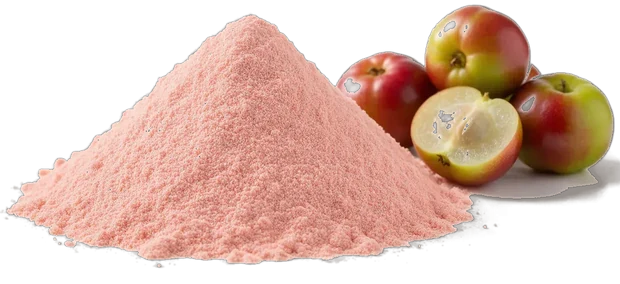
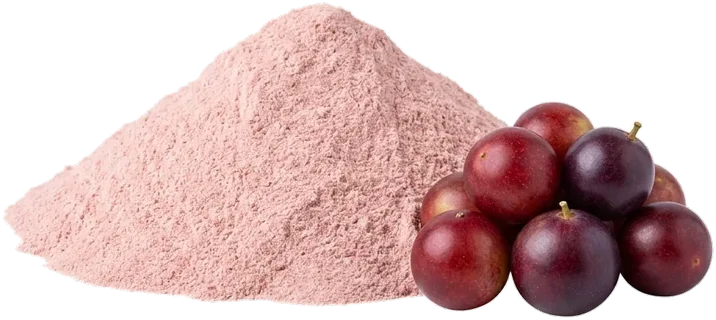
Portada nueva desde Flow y versión en archivos para evitar fotos viejas

diff --git a/assets/js/portada.js b/assets/js/portada.js
@@ -1,6 +1,7 @@
 /* Reyna's Superfoods · portada.js
    Slider de la portada con capas en paralaje, pestañas y barra fija con mega menú. */
-const IMG = {"maca_main": {"src": "/assets/hero/maca_main.webp", "w": 620, "h": 269}, "maca_amar": {"src": "/assets/hero/maca_amar.webp", "w": 299, "h": 350}, "maca_negra_r": {"src": "/assets/hero/maca_negra_r.webp", "w": 278, "h": 248}, "maca_roja_h": {"src": "/assets/hero/maca_roja_h.webp", "w": 309, "h": 235}, "lucuma_main": {"src": "/assets/hero/lucuma_main.webp", "w": 620, "h": 283}, "lucuma_half": {"src": "/assets/hero/lucuma_half.webp", "w": 232, "h": 234}, "lucuma_whole": {"src": "/assets/hero/lucuma_whole.webp", "w": 211, "h": 248}, "lucuma_pow": {"src": "/assets/hero/lucuma_pow.webp", "w": 360, "h": 158}, "maiz_main": {"src": "/assets/hero/maiz_main.webp", "w": 620, "h": 290}, "maiz_cob": {"src": "/assets/hero/maiz_cob.webp", "w": 381, "h": 215}, "maiz_pow": {"src": "/assets/hero/maiz_pow.webp", "w": 360, "h": 161}, "camu_main": {"src": "/assets/hero/camu_main.webp", "w": 620, "h": 284}, "camu_ber": {"src": "/assets/hero/camu_ber.webp", "w": 244, "h": 237}, "camu_bowl": {"src": "/assets/hero/camu_bowl.webp", "w": 360, "h": 155}, "camu_x_ber": {"src": "/assets/hero/camu_x_ber.webp", "w": 152, "h": 212}};
+const IMG = {"maca_main": {"src": "/assets/hero/maca_main.webp", "w": 716, "h": 345}, "maca_amar": {"src": "/assets/hero/maca_amar.webp", "w": 415, "h": 420}, "maca_negra_r": {"src": "/assets/hero/maca_negra_r.webp", "w": 420, "h": 415}, "maca_roja_h": {"src": "/assets/hero/maca_roja_h.webp", "w": 402, "h": 420}, "lucuma_main": {"src": "/assets/hero/lucuma_main.webp", "w": 723, "h": 322}, "lucuma_half": {"src": "/assets/hero/lucuma_half.webp", "w": 402, "h": 257}, "lucuma_whole": {"src": "/assets/hero/lucuma_whole.webp", "w": 318, "h": 391}, "maiz_main": {"src": "/assets/hero/maiz_main.webp", "w": 758, "h": 346}, "maiz_cob": {"src": "/assets/hero/maiz_cob.webp", "w": 420, "h": 310}, "camu_main": {"src": "/assets/hero/camu_main.webp", "w": 716, "h": 320}, "camu_ber": {"src": "/assets/hero/camu_ber.webp", "w": 420, "h": 360}, "camu_x_ber": {"src": "/assets/hero/camu_x_ber.webp", "w": 271, "h": 219}};
+Object.values(IMG).forEach(o => { o.src = withV(o.src); });
 /* =========================================================
    PORTADA (sin cambios respecto de la v6)
    ========================================================= */
@@ -8,13 +9,13 @@ const SLIDES = [
   { word:'Maca', bg:'#D39F78', search:'maca', main:'maca_main',
     pieces:[['maca_amar',355,150,160,0,0,'fruit'],['maca_negra_r',1035,220,170,-8,0,'fruit'],['maca_roja_h',245,470,185,-8,0,'fruit'],['maca_amar',1215,440,165,14,1,'fruit'],['maca_roja_h',1040,605,165,20,1,'fruit'],['maca_amar',-30,600,300,0,0,'corner'],['maca_negra_r',1250,25,245,0,0,'corner']]},
   { word:'Lúcuma', bg:'#EDC27A', search:'lúcuma', main:'lucuma_main',
-    pieces:[['lucuma_whole',360,140,150,-12,0,'fruit'],['lucuma_half',1035,215,170,10,0,'fruit'],['lucuma_pow',230,480,200,0,0,'fruit'],['lucuma_half',1215,430,170,-20,1,'fruit'],['lucuma_whole',1050,600,150,16,1,'fruit'],['lucuma_half',-20,590,290,0,0,'corner'],['lucuma_whole',1260,20,230,20,0,'corner']]},
+    pieces:[['lucuma_whole',360,140,150,-12,0,'fruit'],['lucuma_half',1035,215,170,10,0,'fruit'],['lucuma_whole',230,480,200,0,0,'fruit'],['lucuma_half',1215,430,170,-20,1,'fruit'],['lucuma_whole',1050,600,150,16,1,'fruit'],['lucuma_half',-20,590,290,0,0,'corner'],['lucuma_whole',1260,20,230,20,0,'corner']]},
   { word:'Maíz morado', bg:'#B79DD4', search:'maíz morado', main:'maiz_main',
-    pieces:[['maiz_pow',350,150,170,0,0,'fruit'],['maiz_cob',1030,225,190,-12,0,'fruit'],['maiz_cob',220,480,210,18,1,'fruit'],['maiz_pow',1215,440,175,0,1,'fruit'],['maiz_cob',1045,610,180,-6,0,'fruit'],['maiz_pow',-30,595,300,0,0,'corner'],['maiz_cob',1240,30,260,25,0,'corner']]},
+    pieces:[['maiz_cob',350,150,170,0,0,'fruit'],['maiz_cob',1030,225,190,-12,0,'fruit'],['maiz_cob',220,480,210,18,1,'fruit'],['maiz_cob',1215,440,175,0,1,'fruit'],['maiz_cob',1045,610,180,-6,0,'fruit'],['maiz_cob',-30,595,300,0,0,'corner'],['maiz_cob',1240,30,260,25,0,'corner']]},
   { word:'Camu camu', bg:'#EDA0B2', search:'camu camu', main:'camu_main',
-    pieces:[['camu_x_ber',370,135,130,-10,0,'fruit'],['camu_ber',1035,215,170,8,0,'fruit'],['camu_bowl',220,480,200,-6,0,'fruit'],['camu_x_ber',1225,425,145,15,1,'fruit'],['camu_ber',1045,605,165,-14,1,'fruit'],['camu_ber',-30,590,300,0,0,'corner'],['camu_x_ber',1270,15,210,20,0,'corner']]},
+    pieces:[['camu_x_ber',370,135,130,-10,0,'fruit'],['camu_ber',1035,215,170,8,0,'fruit'],['camu_x_ber',220,480,200,-6,0,'fruit'],['camu_x_ber',1225,425,145,15,1,'fruit'],['camu_ber',1045,605,165,-14,1,'fruit'],['camu_ber',-30,590,300,0,0,'corner'],['camu_x_ber',1270,15,210,20,0,'corner']]},
 ];
-const MAIN_W = 680, MAIN_BOTTOM = 760;
+const MAIN_W = 700, MAIN_BOTTOM = 760;
 const SHADOWS = [[340,662,190,26],[720,758,430,38],[1300,632,170,24],[1120,780,160,22]];
 const LAYERS = ['word','shadow','bottle','fruit','corner'];
 const FACT = {word:.40, shadow:.30, bottle:.15, fruit:.55, corner:.75};

diff --git a/index.html b/index.html
@@ -27,8 +27,8 @@
 <link rel="preconnect" href="https://fonts.gstatic.com" crossorigin>
 <link rel="preconnect" href="https://cauphvgvqtcvmcsvbyry.supabase.co" crossorigin>
 <link href="https://fonts.googleapis.com/css2?family=Baloo+2:wght@800&family=Poppins:wght@400;500;600;700&display=swap" rel="stylesheet">
-<link rel="preload" as="image" href="/assets/hero/maca_main.webp">
-<link rel="stylesheet" href="/assets/css/styles.css">
+<link rel="preload" as="image" href="/assets/hero/maca_main.webp?v=2">
+<link rel="stylesheet" href="/assets/css/styles.css?v=2">
 <script type="application/ld+json">
 {
   "@context": "https://schema.org",
@@ -317,11 +317,11 @@
 <div class="toast" id="toast" role="status"><span id="toastT"></span><button type="button" data-cart>Ver pedido</button></div>
 
 
-<script defer src="/assets/js/config.js"></script>
-<script defer src="/assets/js/core.js"></script>
-<script defer src="/assets/js/portada.js"></script>
-<script defer src="/assets/js/tienda.js"></script>
-<script defer src="/assets/js/pedido.js"></script>
-<script defer src="/assets/js/acceso.js"></script>
+<script defer src="/assets/js/config.js?v=2"></script>
+<script defer src="/assets/js/core.js?v=2"></script>
+<script defer src="/assets/js/portada.js?v=2"></script>
+<script defer src="/assets/js/tienda.js?v=2"></script>
+<script defer src="/assets/js/pedido.js?v=2"></script>
+<script defer src="/assets/js/acceso.js?v=2"></script>
 </body>
 </html>

diff --git a/assets/js/acceso.js b/assets/js/acceso.js
@@ -5,8 +5,8 @@ const isAdminOpen = () => { const a = document.getElementById('admin'); return !
 let adminReady = null;
 function loadAdmin(){
   if (!adminReady){
-    const css = new Promise((ok, fail) => { const l = document.createElement('link'); l.rel = 'stylesheet'; l.href = '/assets/css/admin.css'; l.onload = ok; l.onerror = fail; document.head.appendChild(l); });
-    const js = new Promise((ok, fail) => { const s = document.createElement('script'); s.src = '/assets/js/admin.js'; s.onload = ok; s.onerror = fail; document.body.appendChild(s); });
+    const css = new Promise((ok, fail) => { const l = document.createElement('link'); l.rel = 'stylesheet'; l.href = withV('/assets/css/admin.css'); l.onload = ok; l.onerror = fail; document.head.appendChild(l); });
+    const js = new Promise((ok, fail) => { const s = document.createElement('script'); s.src = withV('/assets/js/admin.js'); s.onload = ok; s.onerror = fail; document.body.appendChild(s); });
     adminReady = Promise.all([css, js]).catch(err => { adminReady = null; throw err; });
   }
   return adminReady;

diff --git a/assets/css/styles.css b/assets/css/styles.css
@@ -485,5 +485,7 @@ img{display:block;max-width:100%}
 @keyframes waPulse{0%{transform:scale(1);opacity:.7}100%{transform:scale(1.35);opacity:0}}
 .satc.show ~ .wafloat{bottom:100px}
 body:has(.drawer.open) .wafloat,body:has(.admin:not([hidden])) .wafloat{opacity:0;pointer-events:none}
+/* en la portada no aparece (taparía la flecha); sale junto con la barra superior */
+body:has(#topbar:not(.show)) .wafloat{opacity:0;pointer-events:none;transform:translateY(16px)}
 @media (max-width:640px){.wafloat{width:56px;height:56px;padding:0;justify-content:center;right:14px;bottom:14px}.wafloat span{display:none}}
 @media (prefers-reduced-motion:reduce){.wafloat::before{animation:none}.wafloat:hover{transform:none}}

diff --git a/assets/js/core.js b/assets/js/core.js
@@ -1,7 +1,9 @@
 /* Reyna's Superfoods · core.js
    Utilidades compartidas y conexión con Supabase (REST, Auth y Storage). Se carga primero. */
 const WA = window.REYNAS.whatsapp;
-const photoUrl = key => `/assets/products/${key}.webp`;
+const V = window.REYNAS.version || '1';
+const withV = url => `${url}?v=${V}`;
+const photoUrl = key => withV(`/assets/products/${key}.webp`);
 const $ = s => document.querySelector(s);
 const RM = matchMedia('(prefers-reduced-motion: reduce)');
 const FINE = matchMedia('(hover: hover) and (pointer: fine)');

diff --git a/assets/js/config.js b/assets/js/config.js
@@ -5,5 +5,7 @@ window.REYNAS = {
   supabaseUrl: 'https://cauphvgvqtcvmcsvbyry.supabase.co',
   supabaseKey: 'sb_publishable_gpHao0azXWKB31UoQrRt-w_pFBnE3bY',
   whatsapp: '51918515262',
-  bagFrames: 96
+  // Súbelo (2, 3, 4…) cada vez que cambies fotos, CSS o JS: obliga a los navegadores a bajar la versión nueva.
+  // Cambia también el mismo número en index.html (preload, styles.css y los scripts).
+  version: '2'
 };
